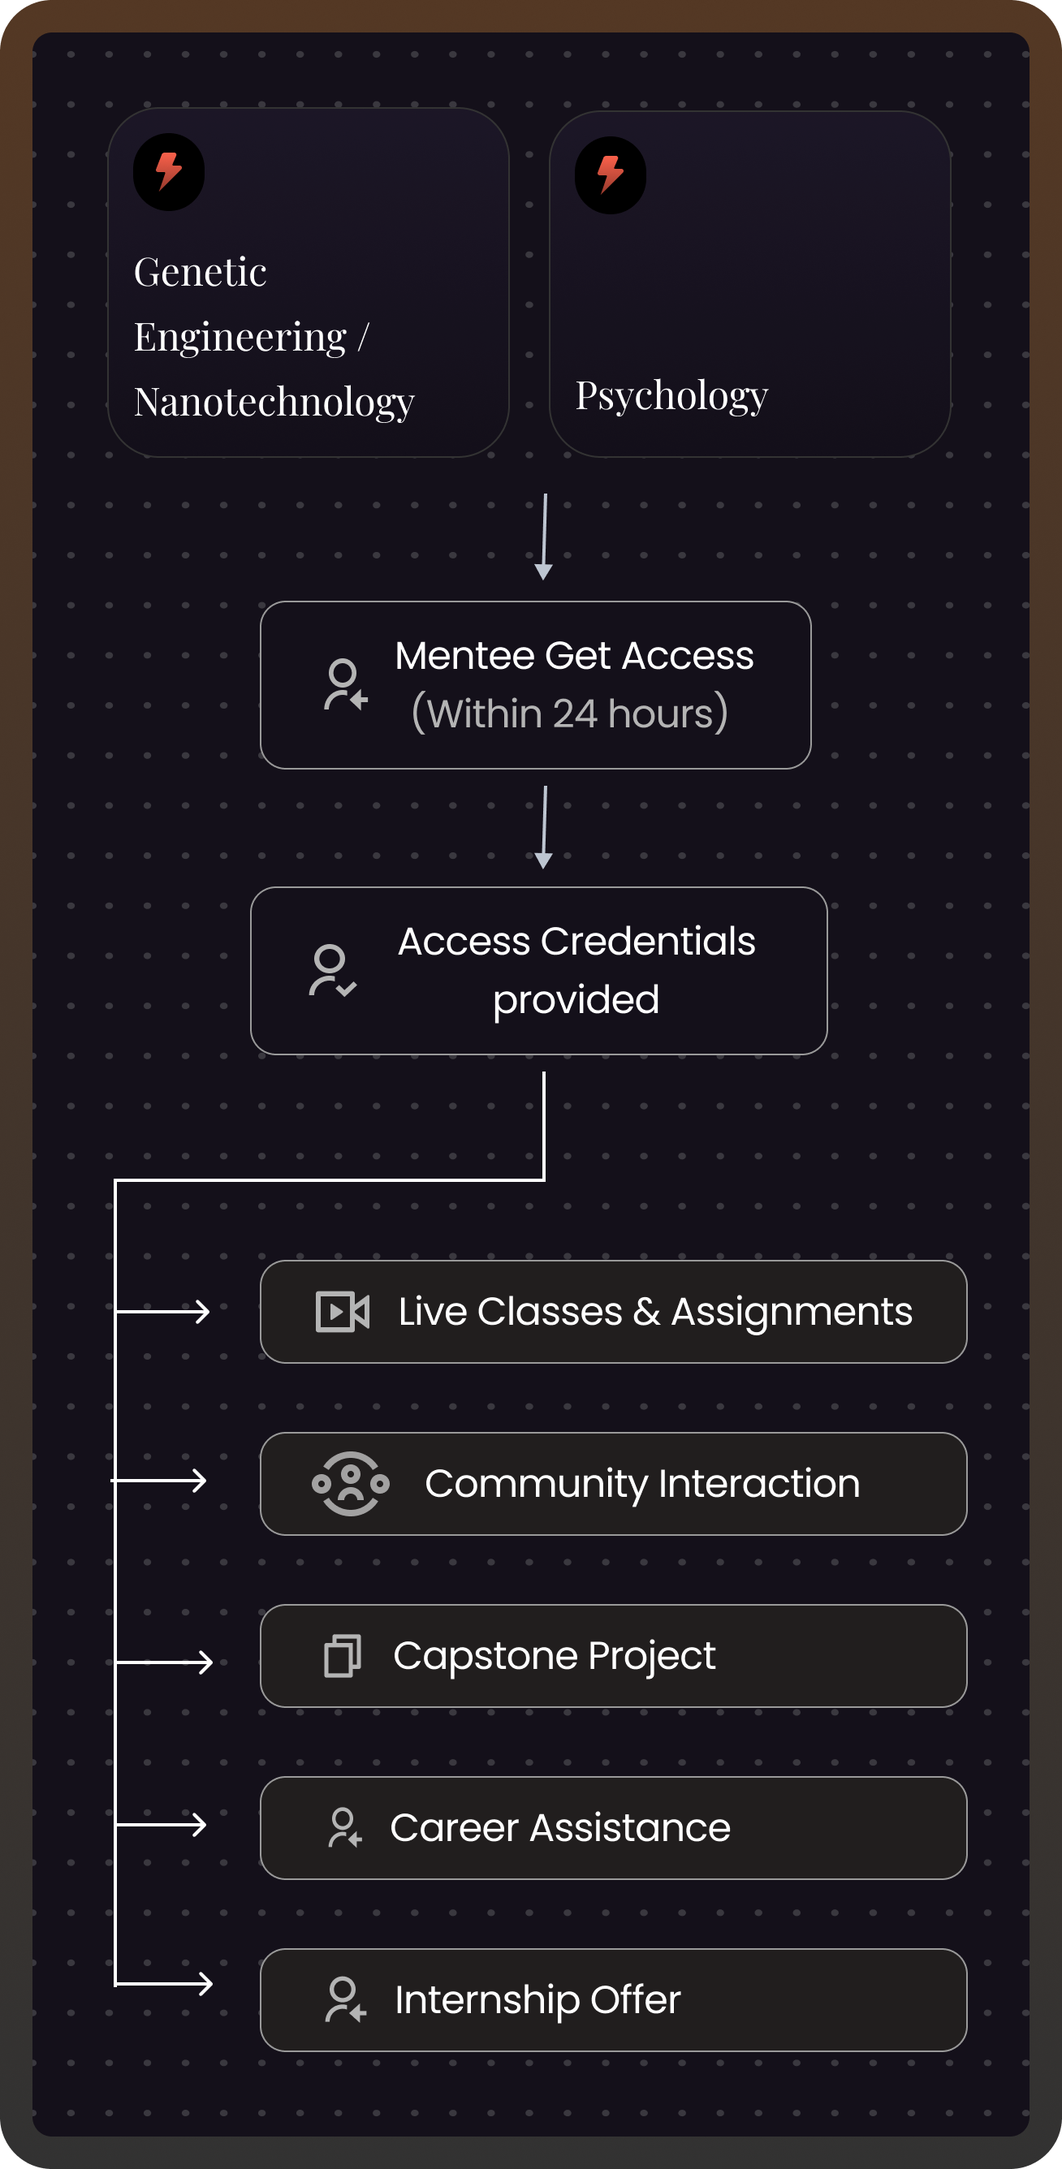
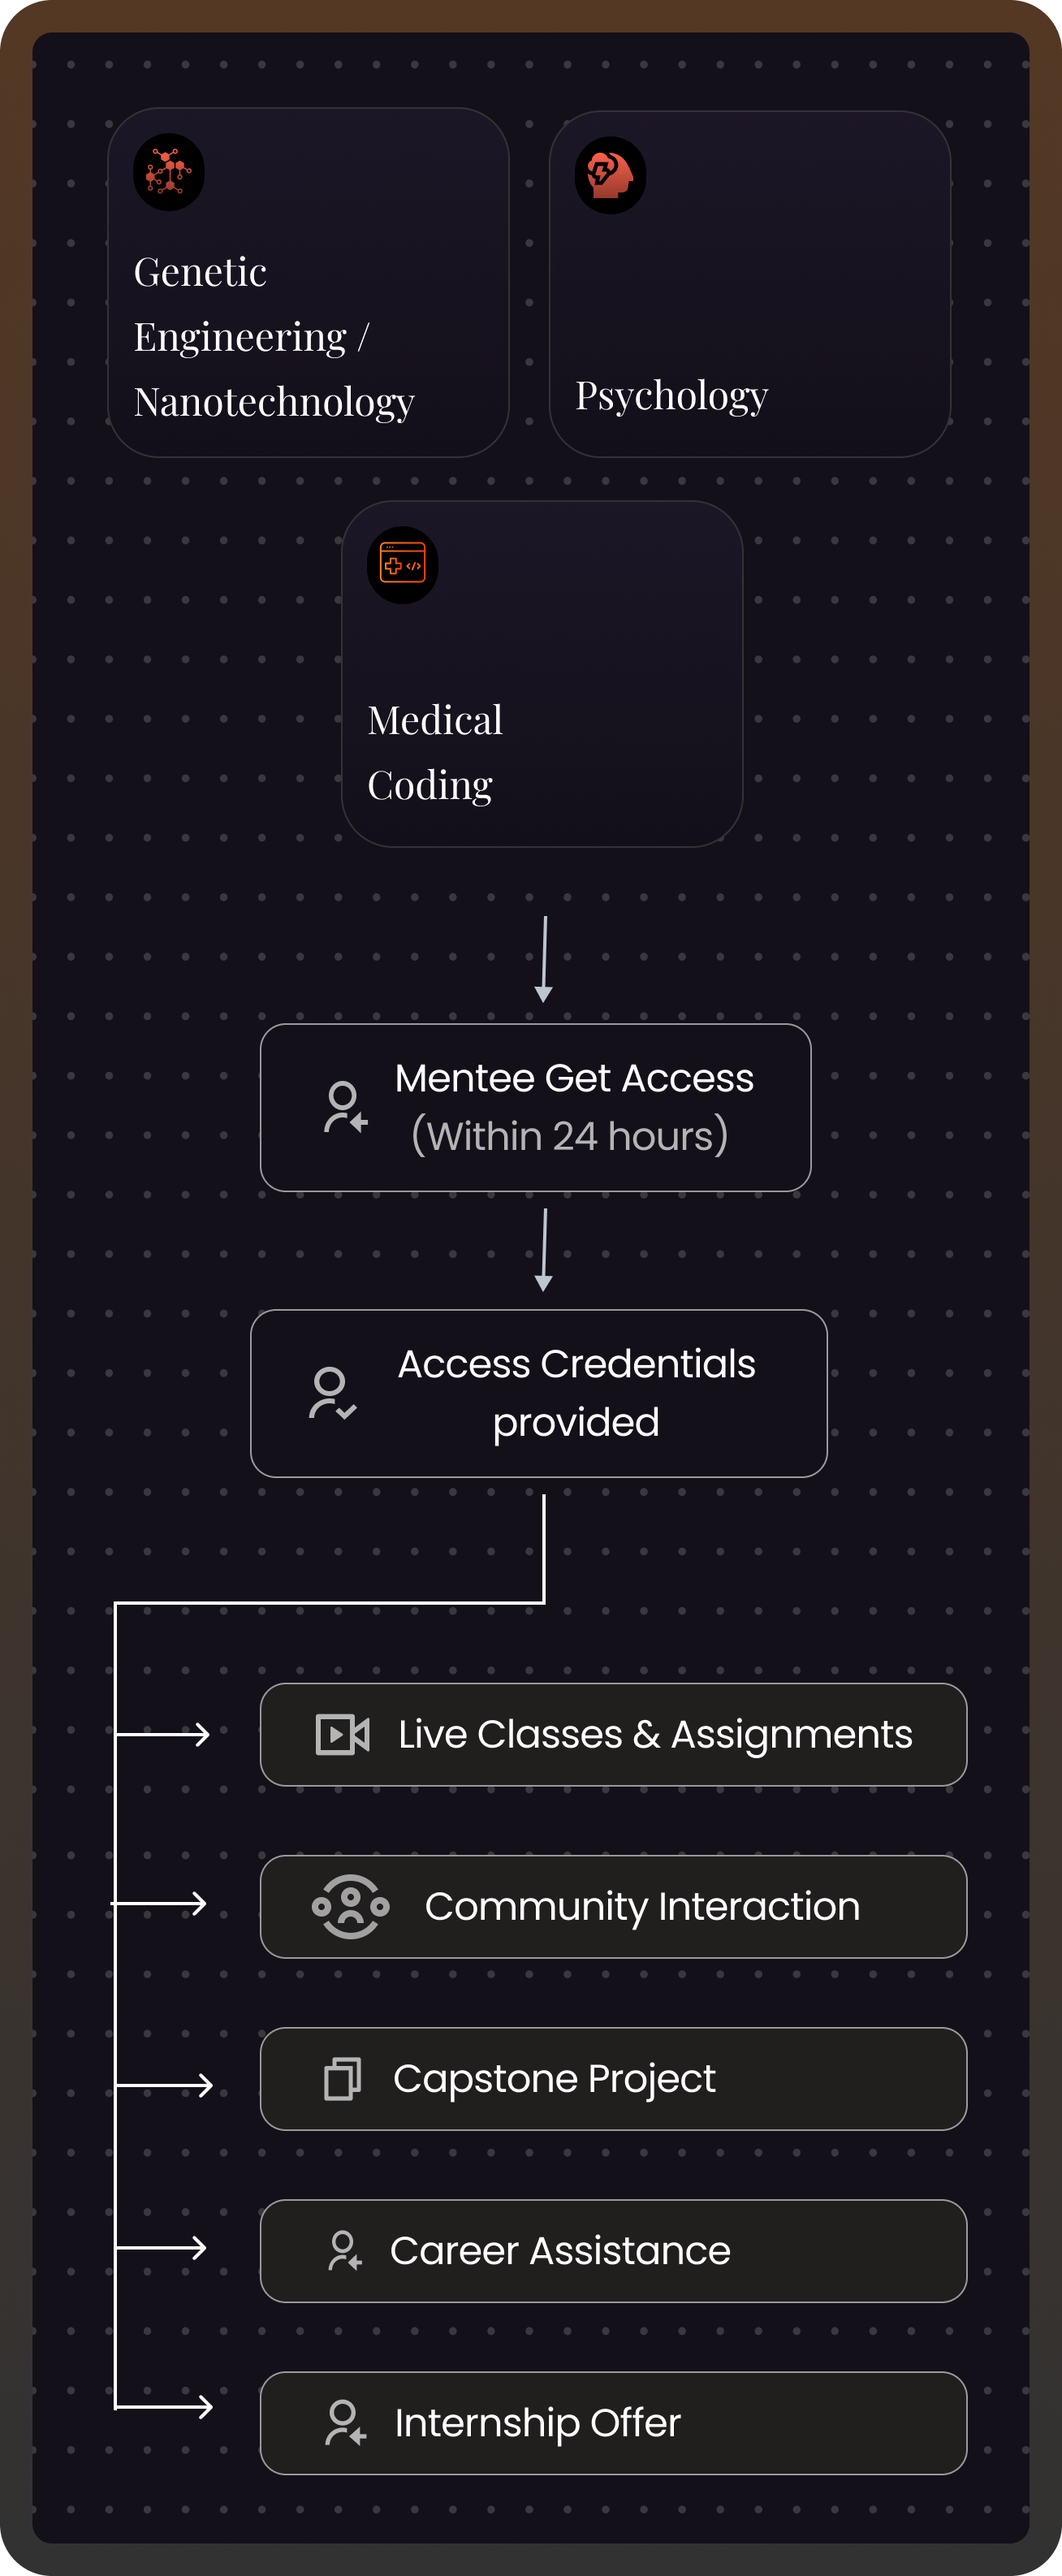
stack pages

diff --git a/src/components/SuperStack.jsx b/src/components/SuperStack.jsx
@@ -9,7 +9,7 @@ const stackData = [
     subtitle: "5 Diverse Program",
     successRate: "93% land biz roles or launch ventures",
     tag: "Business",
-    footer: "Graphic Design · UI/UX · Photography · Content creation · UI/UX",
+    footer: "Graphic Design · UI/UX · Psychology · Content creation · UI/UX",
     bgImage: require("../assets/1sttt.png"),
   },
   {
@@ -17,15 +17,15 @@ const stackData = [
     subtitle: "5 Diverse Program",
     successRate: "90% land tech roles or launch products",
     tag: "Tech",
-    footer: "Artificial Intelligence · Data Science · Digital Marketing · Machine Learning · Web Development",
+    footer: "Artificial Intelligence · Data Science · Cloud Computing  · Machine Learning · Web Development",
     bgImage: require("../assets/2nd.png"),
   },
   {
     title: "Medical Edition",
-    subtitle: "2 Diverse Program",
+    subtitle: "3 Diverse Program",
     successRate: "84% gain  confidence to pursue future careers in medical.",
     tag: "Medical",
-    footer: "Nanotechnology · Biotech · psychology · Nanotechnology · Biotech · psychology  ",
+    footer: "Medical coding · Gentic engineering  · psychology · Medical coding · Gentic engineering · psychology  ",
     bgImage: require("../assets/3rdd.png"),
   },
   {
@@ -33,7 +33,7 @@ const stackData = [
     subtitle: "7 Diverse Program",
     successRate: "91% gain  confidence to lead market trends.",
     tag: "Trending",
-    footer: "Business Analytics · Human Resource · Stock market · Finance · Digital Marketing ",
+    footer: "Business Analytics · Human Resource · Stock market · Finance · Psychology · Digital Marketing ",
     bgImage: require("../assets/3rdd.png"),
   },
 ];
